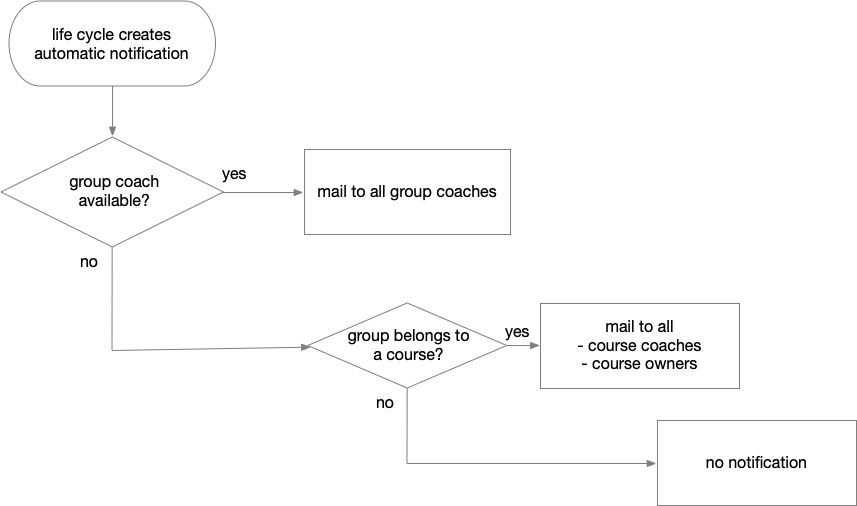
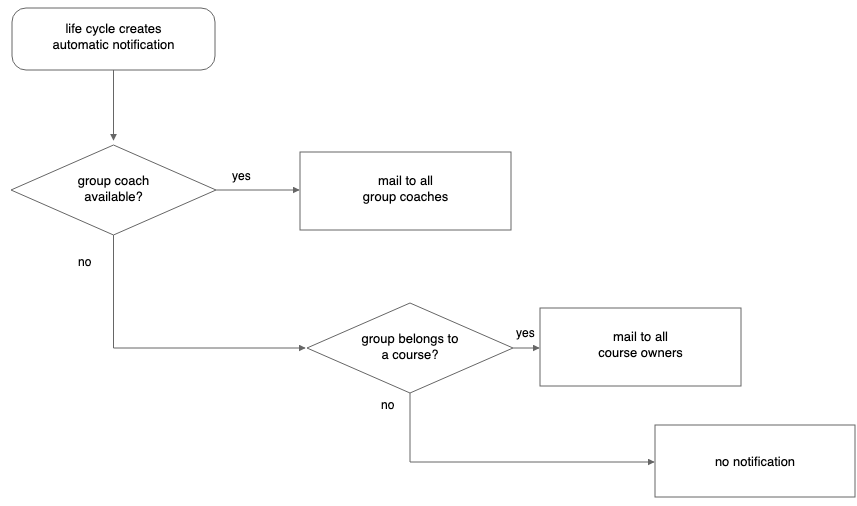
999 Z1-P02: EN-Sync nachgezogen, Alt-Texte, REST-API-Abschnitt und korrigierte Mailkaskade

diff --git a/sites/manual_admin/docs/administration/BigBlueButton_module.md b/sites/manual_admin/docs/administration/BigBlueButton_module.md
@@ -25,11 +25,11 @@ chapter [Course Element BigBlueButton](../../manual_user/learningresources/Cours
   *  **Automatically delete online appointments:** x days after the end of the appointment
   *  **Limit of all presentation files per meeting (MB):** Mandatory field with specification of permitted megabytes
 
-![Configuration tab of the BigBlueButton module](assets/bbb_admin_config_v1_en.png){ class="shadow lightbox" }
+![Configuration tab of the BigBlueButton module: the module is activated separately for course elements, course events, groups and the supervisor chat, followed by the server list, the recording handler and the retention period of the online meetings](assets/bbb_admin_config_v1_en.png){ class="shadow lightbox" }
 
 
 
-## Add BigBlueButton-Server
+### Add BigBlueButton-Server {: #add_server}
 
 Click on the "Add server" button in the Configuration tab to open a pop-up for the details.
 
@@ -40,7 +40,7 @@ Click on the "Add server" button in the Configuration tab to open a pop-up for t
   *  **Manual selection only**: Only manually selected servers are available for load balancing
   *  **Button "Test server connection"**: A very practical help to check access to the server specified here.
 
-![](../administration/assets/bbb_admin_add_server_v1_en.png){ class="shadow lightbox" }
+![Add server dialog: the API URL and the shared secret are mandatory, the capacity factor controls the load, and Check server connection verifies the entries before saving](assets/bbb_admin_add_server_v1_en.png){ class="shadow lightbox" }
 
 ---
 
@@ -48,10 +48,10 @@ Click on the "Add server" button in the Configuration tab to open a pop-up for t
 
 The available BigBlueButton servers per OpenOlat instance are displayed here.
 
-![bbb_admin_server_v1_de.png](assets/bbb_admin_server_v1_de.png){ class="shadow lightbox" }
+![Servers tab of the BigBlueButton module: per server the list shows capacity and current load with meetings, moderators and participants, the filter separates this OpenOlat from all OpenOlats](assets/bbb_admin_server_v1_de.png){ class="shadow lightbox" }
 
 
-## Load balancing [:octicons-tag-16:{ title="from Release 14.2.7 (OO-4626)" }](https://track.frentix.com/issue/OO-4626) {: #load_balancing}
+### Load balancing [:octicons-tag-16:{ title="from Release 14.2.7 (OO-4626)" }](https://track.frentix.com/issue/OO-4626) {: #load_balancing}
 
 The goal is to distribute the generated load of simultaneous online meetings to the available BigBlueButton server by considering a set of performance parameters (such as number of videos and number of participants in the meetings). OpenOlat has an integrated load-balancing for this purpose. At the initial start of the online-meeting (depending on the configuration by the moderator or the first participant) the server with the lowest load is selected for the meeting. The load is calculated from the different measurement factors and weights the result with the capacity factor.
 
@@ -65,7 +65,7 @@ The capacity factor is recorded with a value between 1 and 100 per server. The c
 
 
 
-## Room templates
+## Tab "Room-templates" {: #tab_room-templates}
 
 The room templates are available for selection when creating a new online-meeting. Templates control the following characteristics:
 
@@ -73,7 +73,7 @@ The room templates are available for selection when creating a new online-meetin
   * The number of possible simultaneous users per room
   * Limits regarding duration and number of online rooms available
 
-![bbb_admin_room-templates_v1_de.png](assets/bbb_admin_room-templates_v1_de.png){ class="shadow lightbox" }
+![Room-templates tab of the BigBlueButton module: per template, rooms, number of participants and duration set the frame, and the templates delivered with the system can be edited but not deleted](assets/bbb_admin_room-templates_v1_de.png){ class="shadow lightbox" }
 
 ### Configuration of a room template
 
@@ -90,41 +90,41 @@ The room templates are available for selection when creating a new online-meetin
      * Only guests and external users (Only the access of guests and external users must be confirmed). 
   *  **Room-template activated for:** Determines which roles can use the room template for new online-meetings. If the "Group member" option is activated, the template can also be used and further configured in OpenOlat [groups](../../manual_user/groups/Using_Group_Tools.md).
 
-![](assets/bbb_room_template.png){ class="shadow lightbox" }
+![Configuration of a room template: name, number of participants and duration define the room, the number of rooms and the opening for external users follow, and the list at the bottom releases the template per role](assets/bbb_room_template.png){ class="shadow lightbox" }
 
-  
+
 ### Default settings of the room template
 
-![](assets/edit-room-template-2.png){ class="shadow lightbox" }
+![Default settings of the room template: each behaviour is a yes-no choice, for instance webcams only for moderators, allow meeting recording, allow breakout rooms, and putting participants into lock mode on join](assets/edit-room-template-2.png){ class="shadow lightbox" }
 
 ### Default settings for locked participants
 
-![](assets/edit-room-template-3.png){ class="shadow lightbox" }
+![Default settings for locked participants: seven yes-no choices determine what the lock disables, from webcam and microphone through both chats to shared notes, participant list and layout changes](assets/edit-room-template-3.png){ class="shadow lightbox" }
 
 ---
 
 
-## Online-Meetings
+## Tab "Online-meetings" {: #tab_online-meetings}
 
 Overview of configured online-meetings with the possibility to switch directly
 to the course/group (context) and/or delete this online-meeting. The search function can also be used to find specific BigBlueButton rooms and quickly mark and delete them, for example.
 
-![](assets/bbb_administration_online-meetings.png){ class="shadow lightbox" }
+![Online-meetings tab of the BigBlueButton module: the list holds all meetings of the instance with period, room-template, server, context and number of recordings](assets/bbb_administration_online-meetings.png){ class="shadow lightbox" }
 
 
 ---
 
 
-## Calendar
+## Tab "Calendar" {: #tab_calendar}
 
 Calendar overview of all recorded online appointments to check times with high occupancy and display overlaps graphically.
 
-:fontawesome-regular-calendar-days:
+![Calendar tab of the BigBlueButton module: all online meetings of the instance in the week view, switchable to month, day and year](assets/bbb_admin_calendar_v1_de.png){ class="shadow lightbox" }
 
 ---
 
 ## Further information
 
 [Instructions for configuring individual online appointments for course owners in the BigBlueButton course element](../../manual_user/learningresources/Course_Element_BigBlueButton.md)
-  
+
 

diff --git a/sites/manual_admin/docs/administration/Automatic_Group_Lifecycle.md b/sites/manual_admin/docs/administration/Automatic_Group_Lifecycle.md
@@ -2,7 +2,7 @@
 
 The group life cycle makes it easy to **automatically** deactivate and then delete unused groups after a certain period of time.
 
-![automatic_grouplifecycle_v1_en.png](assets/automatic_grouplifecycle_v1_en.png){ class="lightbox" }
+![The group life cycle runs through five stations: creation of the group, group is active, deactivation, deletion as a marking, and irrevocable deletion](assets/automatic_grouplifecycle_v1_en.png){ class="lightbox" }
 
 
 !!! note "Note"
@@ -15,7 +15,7 @@ The group life cycle makes it easy to **automatically** deactivate and then dele
 
 Authorized persons (group managers, administrators) receive the additional tab "**Group management**" when they click on "Groups" in the main navigation.
 
-![automatic_group_lifecycle_groupmanagement_v1_de.png](assets/automatic_group_lifecycle_groupmanagement_v1_de.png){ class="shadow lightbox" }
+![Group management tab in the Groups area: the three stages active, inactive and deleted groups show their deadlines, the filters below separate active groups from those due for deactivation or within the reaction period](assets/automatic_group_lifecycle_groupmanagement_v1_de.png){ class="shadow lightbox" }
 
 By clicking on one of the 3 arrows (phases/status), all existing groups are listed sorted into 3 categories:
 
@@ -33,7 +33,7 @@ The additional information in the 3 arrows describes the configuration set up by
 Administrators can configure the progress of the group life cycle in the system administration under:<br>
 `Administration > Lifecycles > Groups`
 
-![automatic_group_lifecycle_admin_v1_de.png](assets/automatic_group_lifecycle_admin_v1_de.png){ class="shadow lightbox" }
+![Groups page in the Lifecycles area of system administration: per stage you define whether deactivation, deletion and irrevocable deletion happen manually or automatically, and which groups the automatic methods take into account](assets/automatic_group_lifecycle_admin_v1_de.png){ class="shadow lightbox" }
 
 The configuration is defined in 4 sections:
 
@@ -69,7 +69,7 @@ The result of the settings made is summarized both in the 3 arrows in the upper 
 
 **Example: View for group managers**
 
-![automatic_group_lifecycle_example1_v1_de.png](assets/automatic_group_lifecycle_example1_v1_de.png){ class="shadow lightbox" }
+![Example configuration of the three stages: deactivation after 660 days without a visit, deletion after 6 days in status Inactive, irrevocable deletion after 2 days in status Deleted, all automatic with a reaction period of 2 days](assets/automatic_group_lifecycle_example1_v1_de.png){ class="shadow lightbox" }
 
   *  **active:** The group is used and someone has visited it within the set period. (Standard 660 days without a visit).
 
@@ -81,7 +81,7 @@ The result of the settings made is summarized both in the 3 arrows in the upper 
 
 ## Examples of the chronological sequence of a status change 
 
-![](assets/Beispielkonfiguration.jpg){ class="lightbox" }
+![Four time courses of a status change: automatic and manual, each without and with a reaction period. They show where focus phase, reaction period and notification fall within the 720 days up to the status change](assets/Beispielkonfiguration.jpg){ class="lightbox" }
 
 
 
@@ -90,7 +90,7 @@ The result of the settings made is summarized both in the 3 arrows in the upper 
 Group coaches have the option of explicitly excluding their group from the automatic methods. This means that all actions in the group life cycle must be triggered manually. You will find the option under:<br>
 `Group > Administration > Group Life Cycle`
 
-![automatic_group_lifecycle_groupcoach_v1_de.png](assets/automatic_group_lifecycle_groupcoach_v1_de.png){ class="shadow lightbox" }
+![Group lifecycle tab in the administration of a group: the checkbox to exclude the group from the automatic methods takes it out, below it are status, last activity and the scheduled deactivation date](assets/automatic_group_lifecycle_groupcoach_v1_de.png){ class="shadow lightbox" }
 
 !!! info "Important"
 
@@ -103,7 +103,7 @@ Group coaches have the option of explicitly excluding their group from the autom
 As soon as an automatic notification has been triggered by the set conditions, OpenOlat checks to whom the notification is sent as an email.
 
 
-![automatic_group_lifecycle_mailcascade_v2_en.png](assets/automatic_group_lifecycle_mailcascade_v2_en.png){ class="lightbox" }
+![Notification cascade: if group coaches exist, all of them receive the mail. If there are none and the group belongs to a course, the mails go to all course owners, otherwise nobody is notified](assets/automatic_group_lifecycle_mailcascade_v2_en.png){ class="lightbox" }
 
 
 

diff --git a/sites/manual_admin/docs/administration/Customizing.md b/sites/manual_admin/docs/administration/Customizing.md
@@ -1,6 +1,6 @@
 # Customizing
 
-![admin_customizing_overview_v1_de.png](assets/admin_customizing_overview_v1_de.png){ class="shadow lightbox aside-left-lg" }
+![Customizing menu in system administration with eight areas: representation and layout, imprint, help, language adaptation tool, system registration, portal, user properties and sites](assets/admin_customizing_overview_v1_de.png){ class="shadow lightbox aside-left-lg" }
 
 The "Customizing" menu contains settings relating to the menu items listed here. You will find these settings in the system administration under:<br>
 `Administration > Customizing`
@@ -9,7 +9,7 @@ The "Customizing" menu contains settings relating to the menu items listed here.
 
 ## Representation, layout {: #layout}
 
-![Layout page with the sections Layout, Company or institution logo and Footer line](assets/admin_customizing_layout_v1_en.png){ class="shadow lightbox" }
+![Layout page in the Customizing menu: system layout as a selection list, logo upload with target URL and alternative text, footer line with target URL and text](assets/admin_customizing_layout_v1_en.png){ class="shadow lightbox" }
 
 ### Section Layout
 
@@ -42,7 +42,7 @@ Administrators determine,
 
 All text can be entered in different languages.
 
-![admin_customizing_imprint_v1_de.png](assets/admin_customizing_imprint_v1_de.png){ class="shadow lightbox" }
+![Imprint page in the Customizing menu: once switched on and set to position Footer, the imprint appears as a link in the footer line, and the three texts are maintained per language](assets/admin_customizing_imprint_v1_de.png){ class="shadow lightbox" }
 
 [To the top of the page ^](#customizing)
 
@@ -51,7 +51,7 @@ All text can be entered in different languages.
 
 Here you can specify which help pages are displayed via the help icon :fontawesome-solid-circle-question: in the main menu. You can also include a link to the support contact form.
 
-![](assets/Hilfemoeglichkeiten.png){ class="shadow lightbox" }
+![Edit help option dialog on the Help page: type, name per language, symbol and URL, plus the display locations authoring, user tools and login](assets/Hilfemoeglichkeiten.png){ class="shadow lightbox" }
 
 [To the top of the page ^](#customizing)
 
@@ -101,17 +101,17 @@ Use the arrows on the right side to set the display order.
 
 The "Coaching tool" entry cannot be deactivated [:octicons-tag-16:{ title="from Release 21.0.1 (OO-9661)" }](https://track.frentix.com/issue/OO-9661), as the Coaching tool is mandatory: the "Enabled" checkbox is greyed out. The display order and the access can still be adjusted.
 
-![admin_customizing_sites_v2_en.png](assets/admin_customizing_sites_v2_en.png){ class="shadow lightbox" }
+![Order tab on the Sites page: the Enabled checkbox of the Coaching tool row is greyed out, the Up and Down arrows remain usable](assets/admin_customizing_sites_v2_en.png){ class="shadow lightbox" }
 
 ### Other tabs
 
 In the other tabs, you can add custom information pages that can be accessed via the main menu in the header. 
 These can be external URLs as well as OpenOlat learning resources (e.g., courses that may consist of only one or a few pages).
 
-![Tab of an info page with Icon CSS class and the table per language](assets/admin_customizing_infopage_v1_en.png){ class="shadow lightbox" }
+![Info page tab on the Sites page: each language has its own title and its own learning resource, and the Icon CSS class determines the symbol of the tab](assets/admin_customizing_infopage_v1_en.png){ class="shadow lightbox" }
 
 For each language you store a separate title and a separate learning resource. With "Select" you open the search for the referenceable learning resource. There you connect the tab with a course.
 
-![Search for referenceable learning resources](assets/admin_customizing_infopage_select_v1_en.png){ class="shadow lightbox" }
+![Search for referenceable learning resources dialog: select the course from the list, or use Create and Import file to add a new learning resource instead](assets/admin_customizing_infopage_select_v1_en.png){ class="shadow lightbox" }
 
 [To the top of the page ^](#customizing)

diff --git a/sites/manual_admin/docs/administration/Core_functions.md b/sites/manual_admin/docs/administration/Core_functions.md
@@ -1,6 +1,6 @@
 # Core functions: Overview {: #core_config}
 
-![admin_core_config_overview_v2_de.png](assets/admin_core_config_overview_v2_de.png){ class="shadow lightbox aside-left-lg" }
+![Core functions menu in system administration with fourteen areas: language and region, personal tools, starting page, REST API, calendar, e-mail, files and folders, WebDAV, access control, statistics, full text search, notifications, GUI settings and licenses](assets/admin_core_config_overview_v2_de.png){ class="shadow lightbox aside-left-lg" }
 
 Administrators have access to the adjacent menu in the system administration:<br>
 `Administration > Core functions`
@@ -29,13 +29,26 @@ Administrators can define a default start page for different roles or users with
 
 Here administrators can set which OpenOlat [tools](../../manual_user/personal_menu/index.md) are made available to users by default, e.g. calendar, personal folders, e-portfolio, chat, etc. as well as which tools are enabled in the menu bar for quick access (Preset).
 
-![](assets/Usertools 01 EN.png){ class="shadow lightbox thumbnail-xl" } ![](assets/Usertools 02 EN.png){ class="shadow lightbox thumbnail-xl" }
+![Available tools list on the Personal tools page: here the administration releases which tools the users can choose from at all](assets/Usertools 01 EN.png){ class="shadow lightbox thumbnail-xl" } ![Preset list on the Personal tools page: only calendar, help and print are preselected and therefore sit in the menu bar, the others the users activate themselves](assets/Usertools 02 EN.png){ class="shadow lightbox thumbnail-xl" }
+
+[To the top of the page ^](#core_config)
+
+
+
+## REST API
+
+Besides activating the interface, the managed objects are also determined here.
+
+[To the details >](../administration/REST_API.md)<br>
+[To the top of the page ^](#core_config)
+
+
 
 ## Calendar {: #calendar_administration}
 
 At this point the system administrators can enable or disable the OpenOlat calendars.
 
-![](assets/Kalender_admin.png){ class="shadow lightbox" width="450px" }
+![Calendar page in the core functions: five switches release the calendar separately, for the system, the personal calendar, the group tool, the course tool and the course element](assets/Kalender_admin.png){ class="shadow lightbox" width="450px" }
 
 [To the top of the page ^](#core_config)
 
@@ -53,7 +66,7 @@ As an administrator, you will find configuration options for the OpenOlat email 
 
 Here you will find options for general settings/configurations relating to files and folders.
 
-![core_config_files_and_folders_tab_overview_v1_de.png](assets/core_config_files_and_folders_tab_overview_v1_de.png){ class="shadow lightbox" }
+![Files and folders page in the core functions with the five tabs Overview, Configuration, Quotas, Large files and Trash](assets/core_config_files_and_folders_tab_overview_v1_en.png){ class="shadow lightbox" }
 
 [See the details >](../administration/Files_and_Folders.md)<br>
 [To the top of the page ^](#core_config)

diff --git a/sites/manual_admin/docs/administration/Assessment_translate_points_in_grades_admin.md b/sites/manual_admin/docs/administration/Assessment_translate_points_in_grades_admin.md
@@ -5,7 +5,7 @@
 Administrators enable the module "Levels/Grading" and create the rating systems that convert points into grades. You find the module in the system administration under:<br>
 `Administration > e-Assessment > Levels/Grading`
 
-![Einstufung/Noten aktivieren](assets/Admin_Noten_en.png){ class="shadow lightbox" }
+![Levels/Grading page in the e-assessment area: the enabled module provides eight grading systems, the Usage column shows how often a system is in use](assets/Admin_Noten_en.png){ class="shadow lightbox" }
 
 The term "Note" is used here as a placeholder for all possible output formats. (Examples could be: 1-6, A-F, "very good" - "unsatisfactory", "Beginner"/"Advanced"/"Expert" etc.).
 
@@ -15,7 +15,7 @@ After activation, course owners can enable Levels/Grading in the course editor i
 
 System administrators can make the following settings to configure the rating systems:
 
-![Edit rating system, numerical type](assets/admin_Noten_Bewertungssystem_en.png){ class="shadow lightbox" }
+![Edit rating system dialog with type Numerical: resolution, rounding and the lowest and highest rating, plus the Passed with threshold when the success status is enabled](assets/admin_Noten_Bewertungssystem_en.png){ class="shadow lightbox" }
 
 ### Numeric type
 
@@ -25,7 +25,7 @@ Numeric rating systems can be customised in their resolution (whole, half, quart
 
 With textual rating systems, one defines the number of performance classes and their name/label. The maximum number of points and the respective grade threshold then determine the general conditions of the rating scale.
 
-![Edit rating system, textual type](assets/admin_Noten_Bewertungssystem_textuell_en.png){ class="shadow lightbox" }
+![Edit rating system dialog with type Textual: performance classes define the levels instead of numeric ranges, and the Passed column sets the outcome per class](assets/admin_Noten_Bewertungssystem_textuell_en.png){ class="shadow lightbox" }
 
 Further examples of useful label names are: Beginner, Advanced, Professional or various emojis.
 

diff --git a/sites/manual_admin/docs/administration/Analytics_module.md b/sites/manual_admin/docs/administration/Analytics_module.md
@@ -20,7 +20,7 @@ module" you switch the analysis off.
 To use Google Analytics in OpenOlat a Google Analytics account is mandatory. In
 addition you must enter a so-called Tracking ID.
 
-![Analytics module with the Google Analytics configuration](assets/GoogleAnalytics_EN.png){ class="shadow lightbox" }
+![Analytics module in system administration: with Google Analytics selected as the service, the configuration requires the tracking ID as a mandatory field](assets/GoogleAnalytics_EN.png){ class="shadow lightbox" }
 
 Once configured, Google Analytics will show for example
 
@@ -45,5 +45,5 @@ OpenOlat automatically adds the configured Matomo URL as a trusted source to the
 Content Security Policy. An additional adjustment of the security policy is not
 necessary.
 
-![Analytics module with the Matomo configuration](assets/admin_analytics_matomo_v1_en.png){ class="shadow lightbox" }
+![Analytics module in system administration: with Matomo (Piwik) selected as the service, the configuration requires the site ID and the Matomo URL](assets/admin_analytics_matomo_v1_en.png){ class="shadow lightbox" }
 
